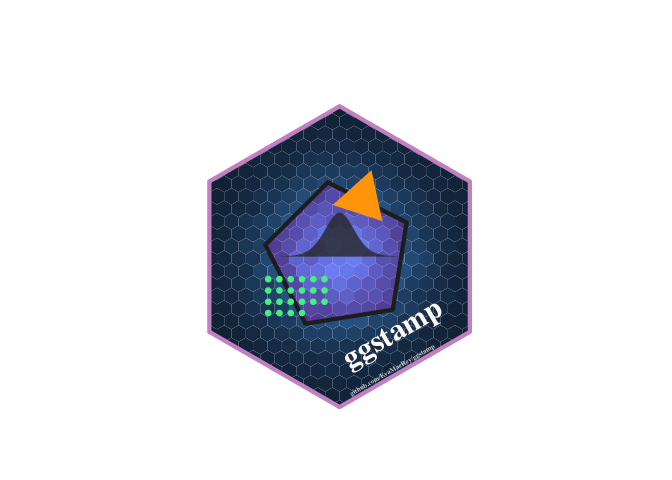
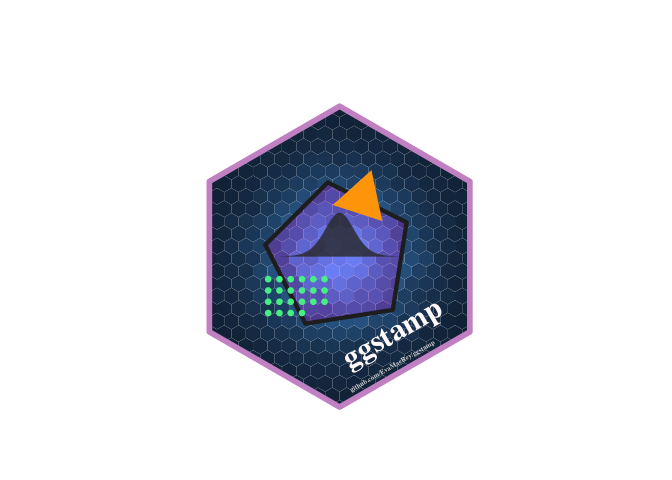
test

diff --git a/README.md b/README.md
@@ -84,19 +84,7 @@ devtools::install_github("EvaMaeRey/ggstamp")
 
 ``` r
 library(tidyverse)
-#> ── Attaching packages ─────────────────────────────────────── tidyverse 1.3.0 ──
-#> ✓ ggplot2 3.3.5     ✓ purrr   0.3.4
-#> ✓ tibble  3.1.2     ✓ dplyr   1.0.7
-#> ✓ tidyr   1.0.2     ✓ stringr 1.4.0
-#> ✓ readr   1.3.1     ✓ forcats 0.5.0
-#> Warning: package 'ggplot2' was built under R version 3.6.2
-#> Warning: package 'tibble' was built under R version 3.6.2
-#> Warning: package 'purrr' was built under R version 3.6.2
-#> Warning: package 'dplyr' was built under R version 3.6.2
-#> ── Conflicts ────────────────────────────────────────── tidyverse_conflicts() ──
-#> x dplyr::filter() masks stats::filter()
-#> x dplyr::lag()    masks stats::lag()
-library(ggstamp)
+library(ggstamp)  
 set.seed(1243)
 tibble::tibble(x = rnorm(40000, sd = .7),
        y = rnorm(40000, sd = .7)) %>% 
@@ -106,7 +94,7 @@ tibble::tibble(x = rnorm(40000, sd = .7),
   coord_equal() + 
   stamp_polygon_inverse(radius = 2, radius_outer = Inf
                         ) + 
-  stamp_polygon(alpha = .2, n = 5,
+  stamp_polygon(alpha = .2, n = 5, size = 1.5,
                 fill = "magenta", color = "grey15",
                 rotation = -.55) + 
   stamp_polygon(radius = .4, n = 3,
@@ -116,17 +104,15 @@ tibble::tibble(x = rnorm(40000, sd = .7),
              x = .7, y = -1,
              color = "snow1") + 
   stamp_text(angle = 30, label = "github.com/EvaMaeRey/ggstamp",
-             x = .7, y = -1.5, size = 1.8,
+             x = .7, y = -1.45, size = 1.8,
              color = "grey85") + 
   stamp_polygon(radius = 2, 
-                alpha = 0, 
+                alpha = 0, size = 2,
                 color = "plum3") + 
   theme_void() +
   ggxmean::stamp_normal_dist(sd = .2, alpha = .8, height = 1.5) + 
   stamp_point(xy = pos_wrap(n = 22, ncol = 6, width = .15, x0 = -.95, y0 = -.3), size = 1,
               color = "seagreen2")
-#> Warning: Ignoring unknown parameters: nudge_x, nudge_y
-#> Warning: Ignoring unknown parameters: nudge_x, nudge_y
 ```
 
 <img src="man/figures/README-unnamed-chunk-3-1.png" width="100%" />
